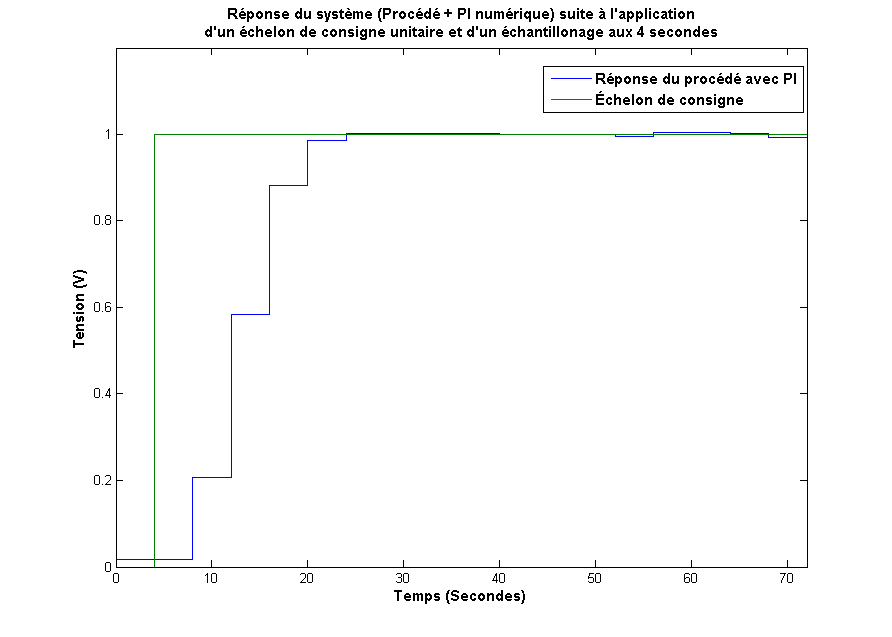
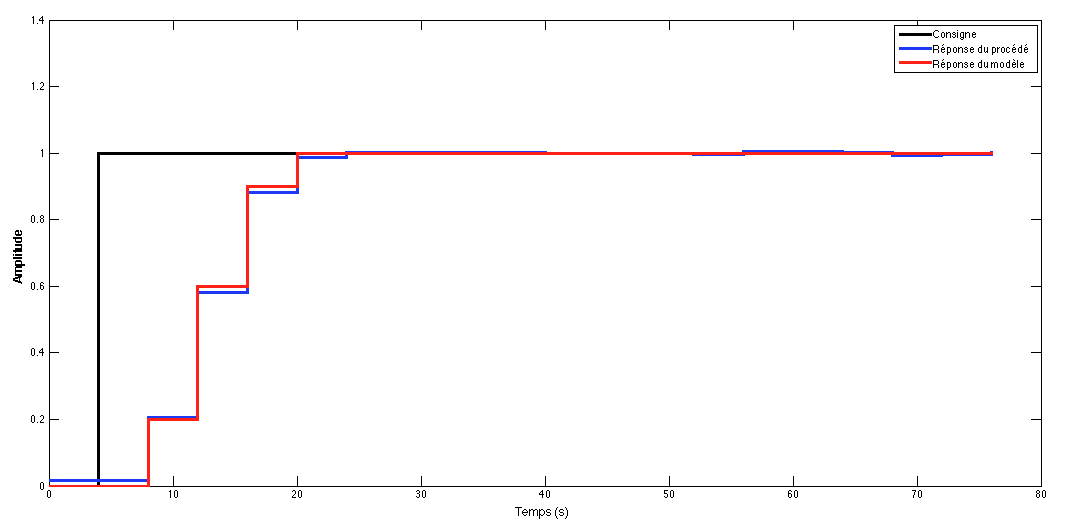
AJout figure comparatif

diff --git a/Commande_Industrielle/Lab5/Rapport_6/tex/contenu.tex b/Commande_Industrielle/Lab5/Rapport_6/tex/contenu.tex
@@ -88,17 +88,19 @@ Le schéma bloc du système d'asservissement numérique est présenté à la fig
 
 \begin{figure}[htbp]
 \centering
-\includegraphics[scale=0.5]{essai1.png}
+\includegraphics[scale=0.4]{essai1.png}
 \caption{Résultats de l'essai de validation des performances au moyen d'un échelon unitaire sur le procédé analogique discrétisé avec un temps d'échantillonnage de 4 secondes.}
 \label{fig3}
 \end{figure}
 
 \begin{figure}[htbp]
 \centering
-\includegraphics[scale=0.5]{essai2.png}
+\includegraphics[scale=0.4]{essai2.png}
 \caption{Résultats de l'essai de validation des performances au moyen d'un échelon de 4 sur le procédé analogique discrétisé avec un temps d'échantillonnage de 4 secondes.}
 \label{fig4}
 \end{figure}
 \clearpage
 \section{Discussion des résultats}
 Au moyen de l'essai d'identification du modèle présenté à la figure \ref{fig5} il est possible de constater que la corrélation est excellente et que la représentation du modèle analogique discrétisé est juste est suffisamment précise pour fins de calculs. La méthode de calcule employée lors de la préparation nous a permis d'effectuer une modification du régulateur à appliquer au système au moyen de modifications mineurs. Il s'agit ici de l'avantage de la synthèse directe, qui permet, lorsqu'on travail dans le domaine discret, de fournir une méthode de réglage efficace lorsque le procédé à réguler change. Cette méthode requiert moins de traitement que la méthode dans le domaine continu et l'application est directe.
+
+\paragraph{}Au moyen de l'essai réalisé au moyen d'un échelon unitaire, présenté à la figure \ref{fig3}, on remarque que l'erreur entre la réponse réelle et la réponse du modèle est pratiquement négligeable et inférieure à 3\% en tout temps. Dans les plages prévues dans la conception du régulateur, on remarque que la synthèse directe nous fournit un régulateur remplissant la réponse en boucle fermée demandée. Cependant, lorsqu'on emploi un échelon n'étant pas unitaire, on remarque, à la figure \ref{fig4}, qu'il y a un fort dépassement causé par le régulateur. On constate donc que le procédé n'est pas linéaire et qu'il faudrait modifier les paramètres du régulateurs pour atteindre la réponse demandée. Il est à noter que l'erreur causée par le dépassement atteint les 15\%. On en retient que la synthèse directe fournie une régulateur remplissant la fonction de transfert demandé en boucle fermée, cependant, le procédé ne doit rester linéaire si on veut éviter une erreur de modélisation et un comportement indésirable du régulateur.
